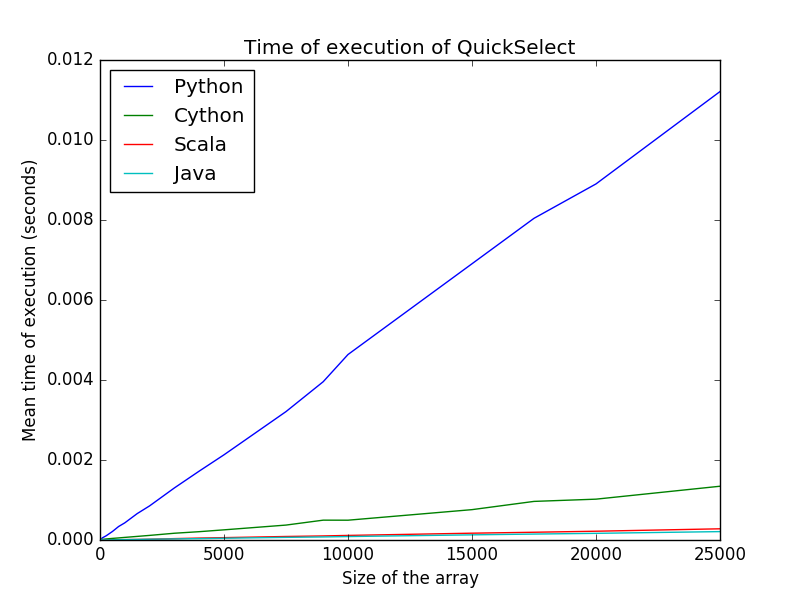
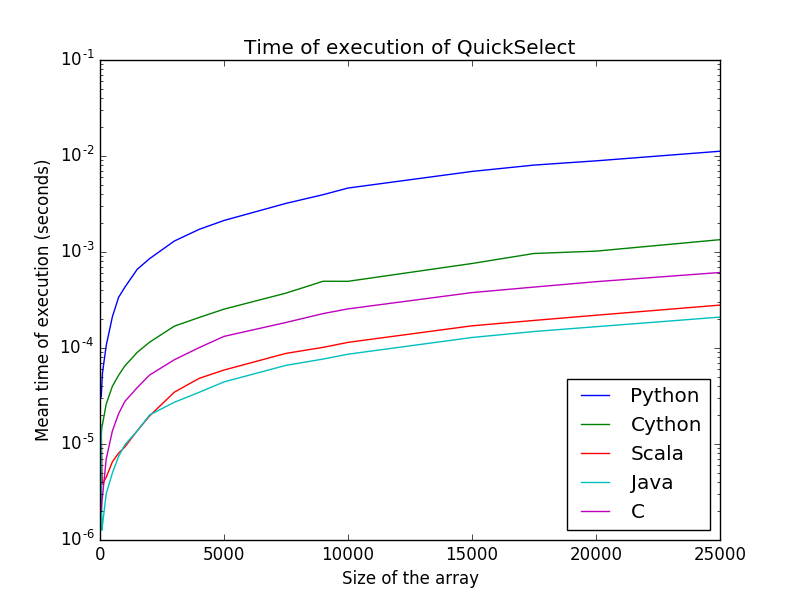
Adding C ebcnhmark results

diff --git a/benchmark.py b/benchmark.py
@@ -16,14 +16,17 @@ python_benchmarks = retreiving_benchmarks("python/benchmark_results.txt")
 cython_benchmarks = retreiving_benchmarks("cython/benchmark_results.txt")
 scala_benchmarks = retreiving_benchmarks("scala/benchmark_results.txt")
 java_benchmarks = retreiving_benchmarks("java/benchmark_results.txt")
+c_benchmarks = retreiving_benchmarks("C/benchmark_results.txt")
 
 plt.plot(python_benchmarks[0], python_benchmarks[1], label="Python")
 plt.plot(cython_benchmarks[0], cython_benchmarks[1], label="Cython")
 plt.plot(scala_benchmarks[0], scala_benchmarks[1], label="Scala")
 plt.plot(java_benchmarks[0], java_benchmarks[1], label="Java")
+plt.plot(c_benchmarks[0], c_benchmarks[1], label="C")
 
 plt.legend(loc=0)
 plt.title("Time of execution of QuickSelect")
 plt.xlabel("Size of the array")
 plt.ylabel("Mean time of execution (seconds)")
+plt.yscale('log')
 plt.savefig("quickselect_benchmark.png")
